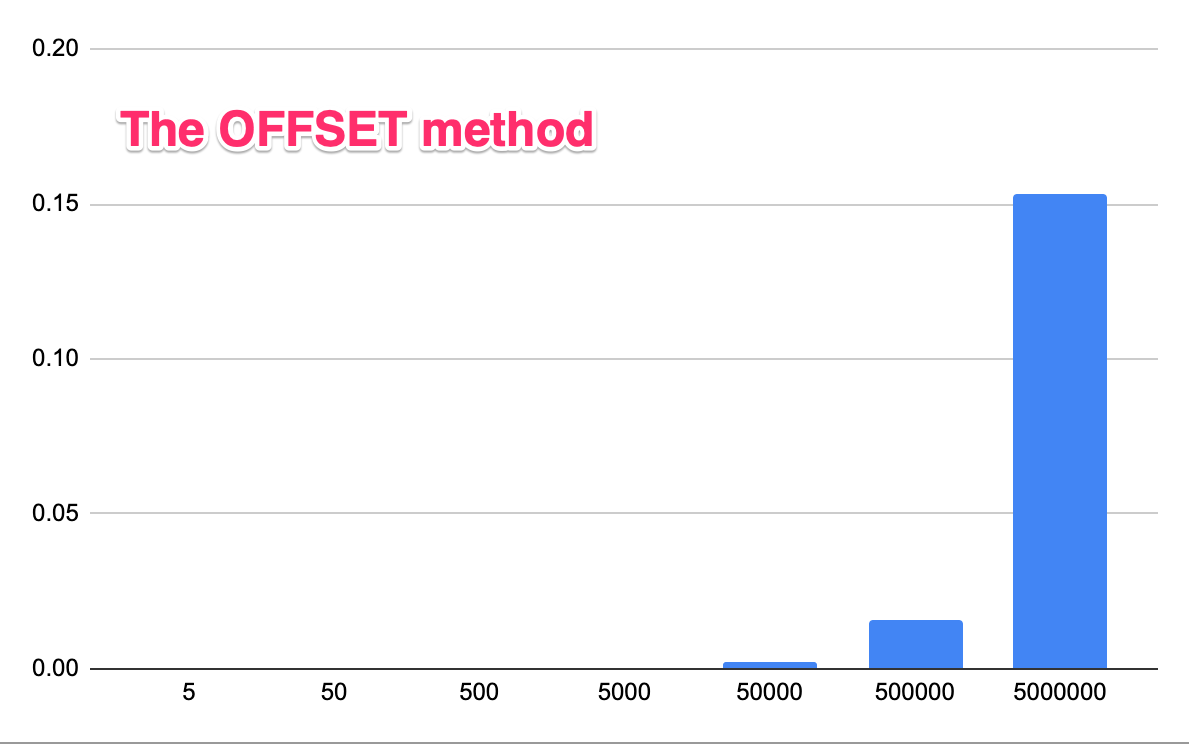
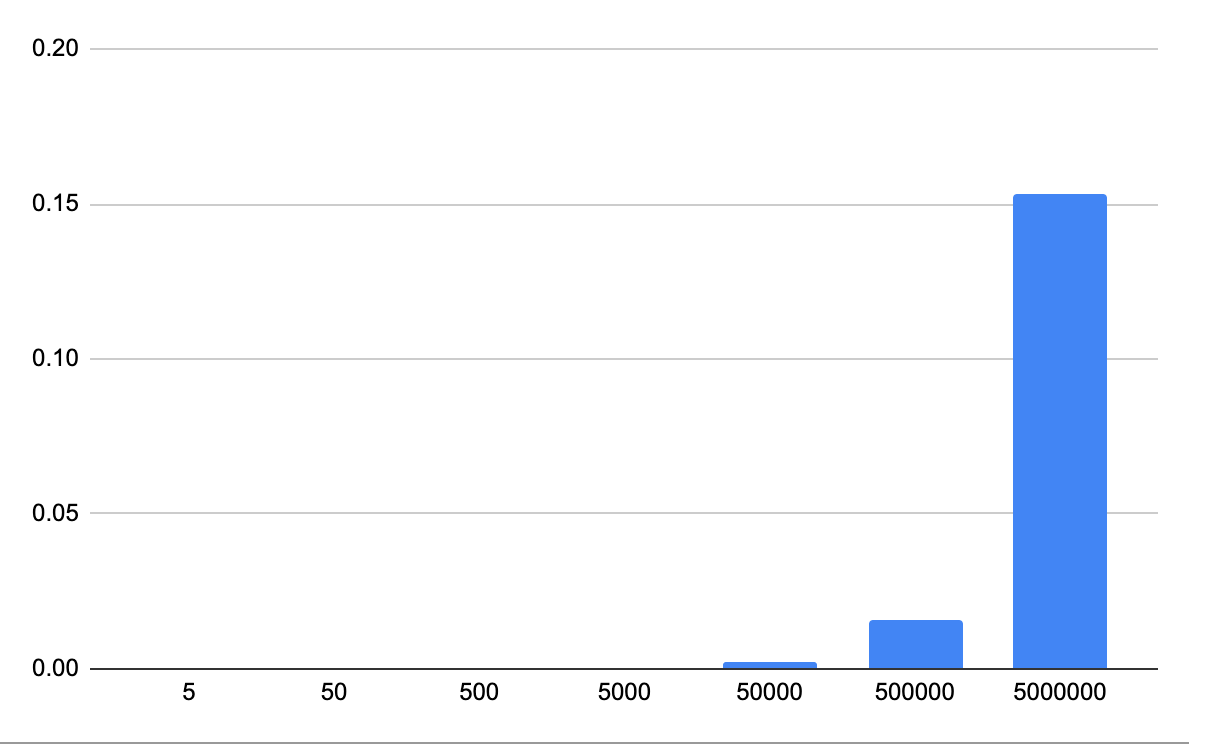
Add details

diff --git a/projects/select-random-rows-in-postgresql/README.md b/projects/select-random-rows-in-postgresql/README.md
@@ -3,6 +3,8 @@
 There are a few posts on StackOverflow that try to solve the "pick a random row" from a PostgreSQL table.
 Here are a few considerations and a few tests around it.
 
+---
+
 ## The Dumbest Way
 
 By far, the easies and dumbest way to pick a single random row from a table is by choosing a random `OFFSET` and limit the query to 1 result:
@@ -13,7 +15,35 @@ OFFSET (SELECT floor(random() * 100 + 1))
 LIMIT 1;
 ```
 
-<iframe width="271" height="167" seamless frameborder="0" scrolling="no" src="https://docs.google.com/spreadsheets/d/e/2PACX-1vSnAnSugZhCOFeqEf4U59EW2LfVuMcWFmHcjDQ5ehfVB2zh2X03J0z21RpgZtNpEcEC_Jojji1YjKL8/pubchart?oid=1635017177&amp;format=interactive"></iframe>
+This query will yield a random rows among the first 100. If you tweak the `100` number to match the amount of rows in the table, then you will get an effective random row from the table:
+
+```sql
+SELECT * FROM "users_with_ids" 
+OFFSET (SELECT floor(random() * (
+  SELECT count(*) FROM "users_with_ids"
+) + 1))
+LIMIT 1;
+```
+
+**So why is that the dumbert way?**
+
+Well, there are 2 reasons:
+
+1. You get just 1 row, if you want more, you must re-run the query
+2. The performances quickly deteriorates with the size of the table
+
+**bonus reason:** Running `SELECT COUNT(*)` on a big table sucks in performances!
+
+This chart show the execution time of the query in a table of 5 million rows. By incrementing the offset range **the performances deteriorates exponentially**.
+
+[![offset](./images/the-offset-method.png)](https://docs.google.com/spreadsheets/d/e/2PACX-1vSnAnSugZhCOFeqEf4U59EW2LfVuMcWFmHcjDQ5ehfVB2zh2X03J0z21RpgZtNpEcEC_Jojji1YjKL8/pubhtml?gid=0&single=true)
+
+**👉 This method is viable ONLY IF:**
+
+1. You have a few thousands lines in the table
+2. You are only interested in 1 single row
+
+---
 
 ## The Easiest Way
 
